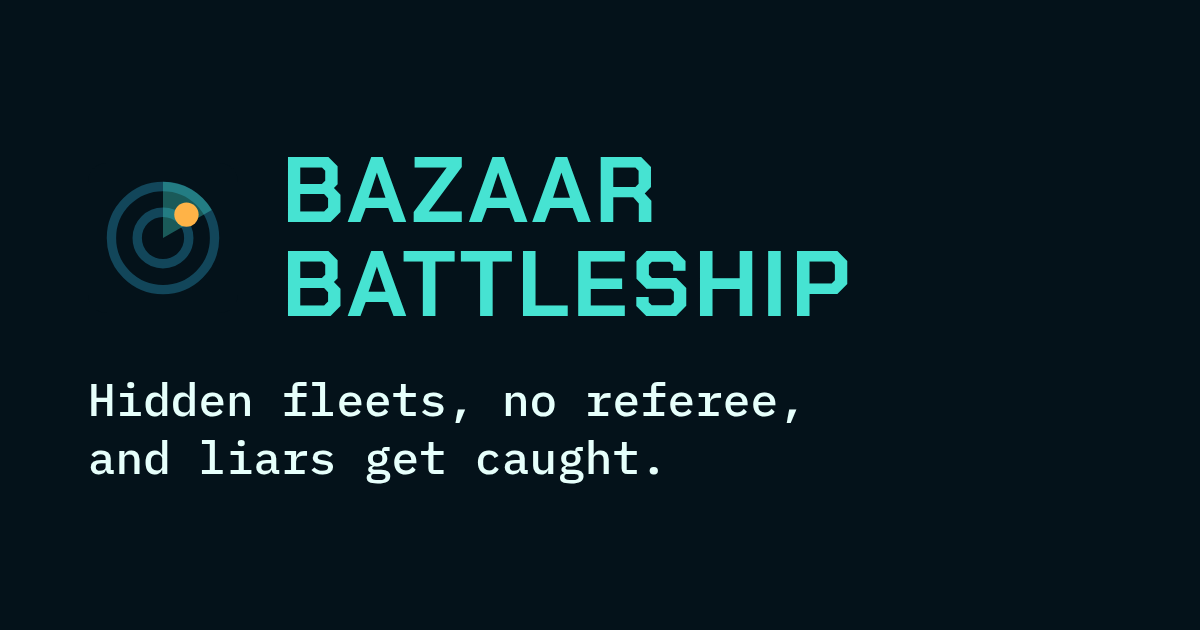
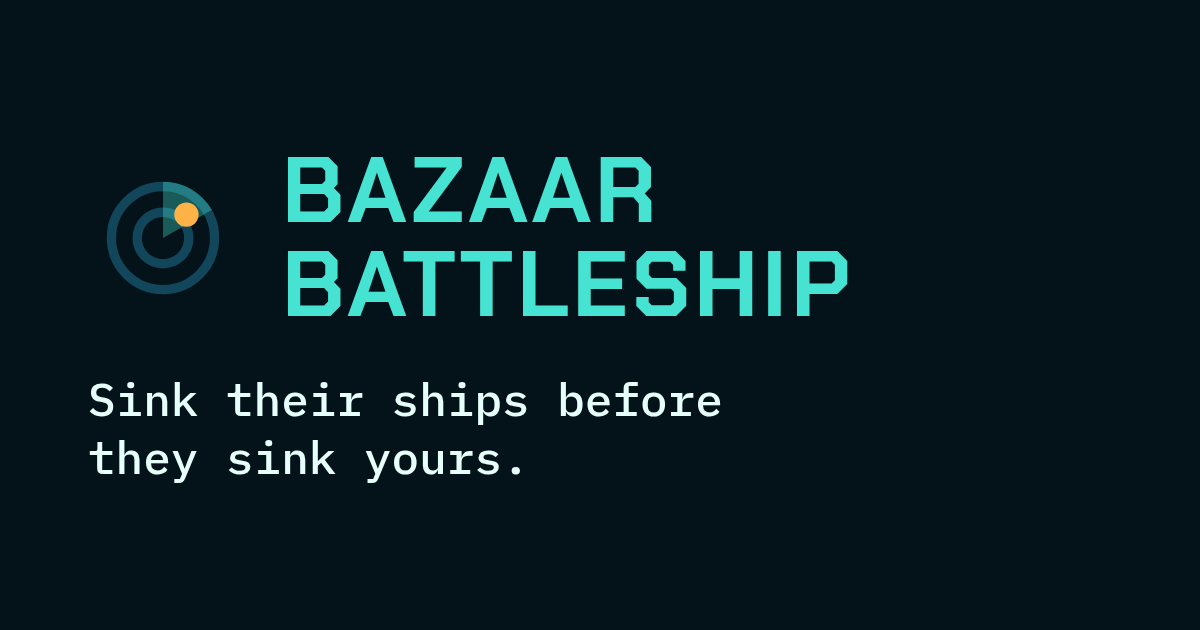
Update the share line

diff --git a/index.html b/index.html
@@ -6,7 +6,7 @@
     <link rel="icon" href="/favicon.ico" sizes="any" />
     <meta name="viewport" content="width=device-width, initial-scale=1.0" />
     <meta name="theme-color" content="#031018" />
-    <meta name="description" content="Hidden fleets, no referee, and liars get caught." />
+    <meta name="description" content="Sink their ships before they sink yours." />
     <link rel="preconnect" href="https://fonts.googleapis.com" />
     <link rel="preconnect" href="https://fonts.gstatic.com" crossorigin />
     <link
@@ -15,11 +15,11 @@
     />
     <meta property="og:type" content="website" />
     <meta property="og:title" content="Bazaar Battleship" />
-    <meta property="og:description" content="Hidden fleets, no referee, and liars get caught." />
+    <meta property="og:description" content="Sink their ships before they sink yours." />
     <meta property="og:image" content="https://bzr-sys.github.io/battleship/og.png" />
     <meta property="og:image:width" content="1200" />
     <meta property="og:image:height" content="630" />
-    <meta property="og:image:alt" content="Bazaar Battleship: Hidden fleets, no referee, and liars get caught." />
+    <meta property="og:image:alt" content="Bazaar Battleship: Sink their ships before they sink yours." />
     <meta name="twitter:card" content="summary_large_image" />
     <title>Bazaar Battleship</title>
   </head>
